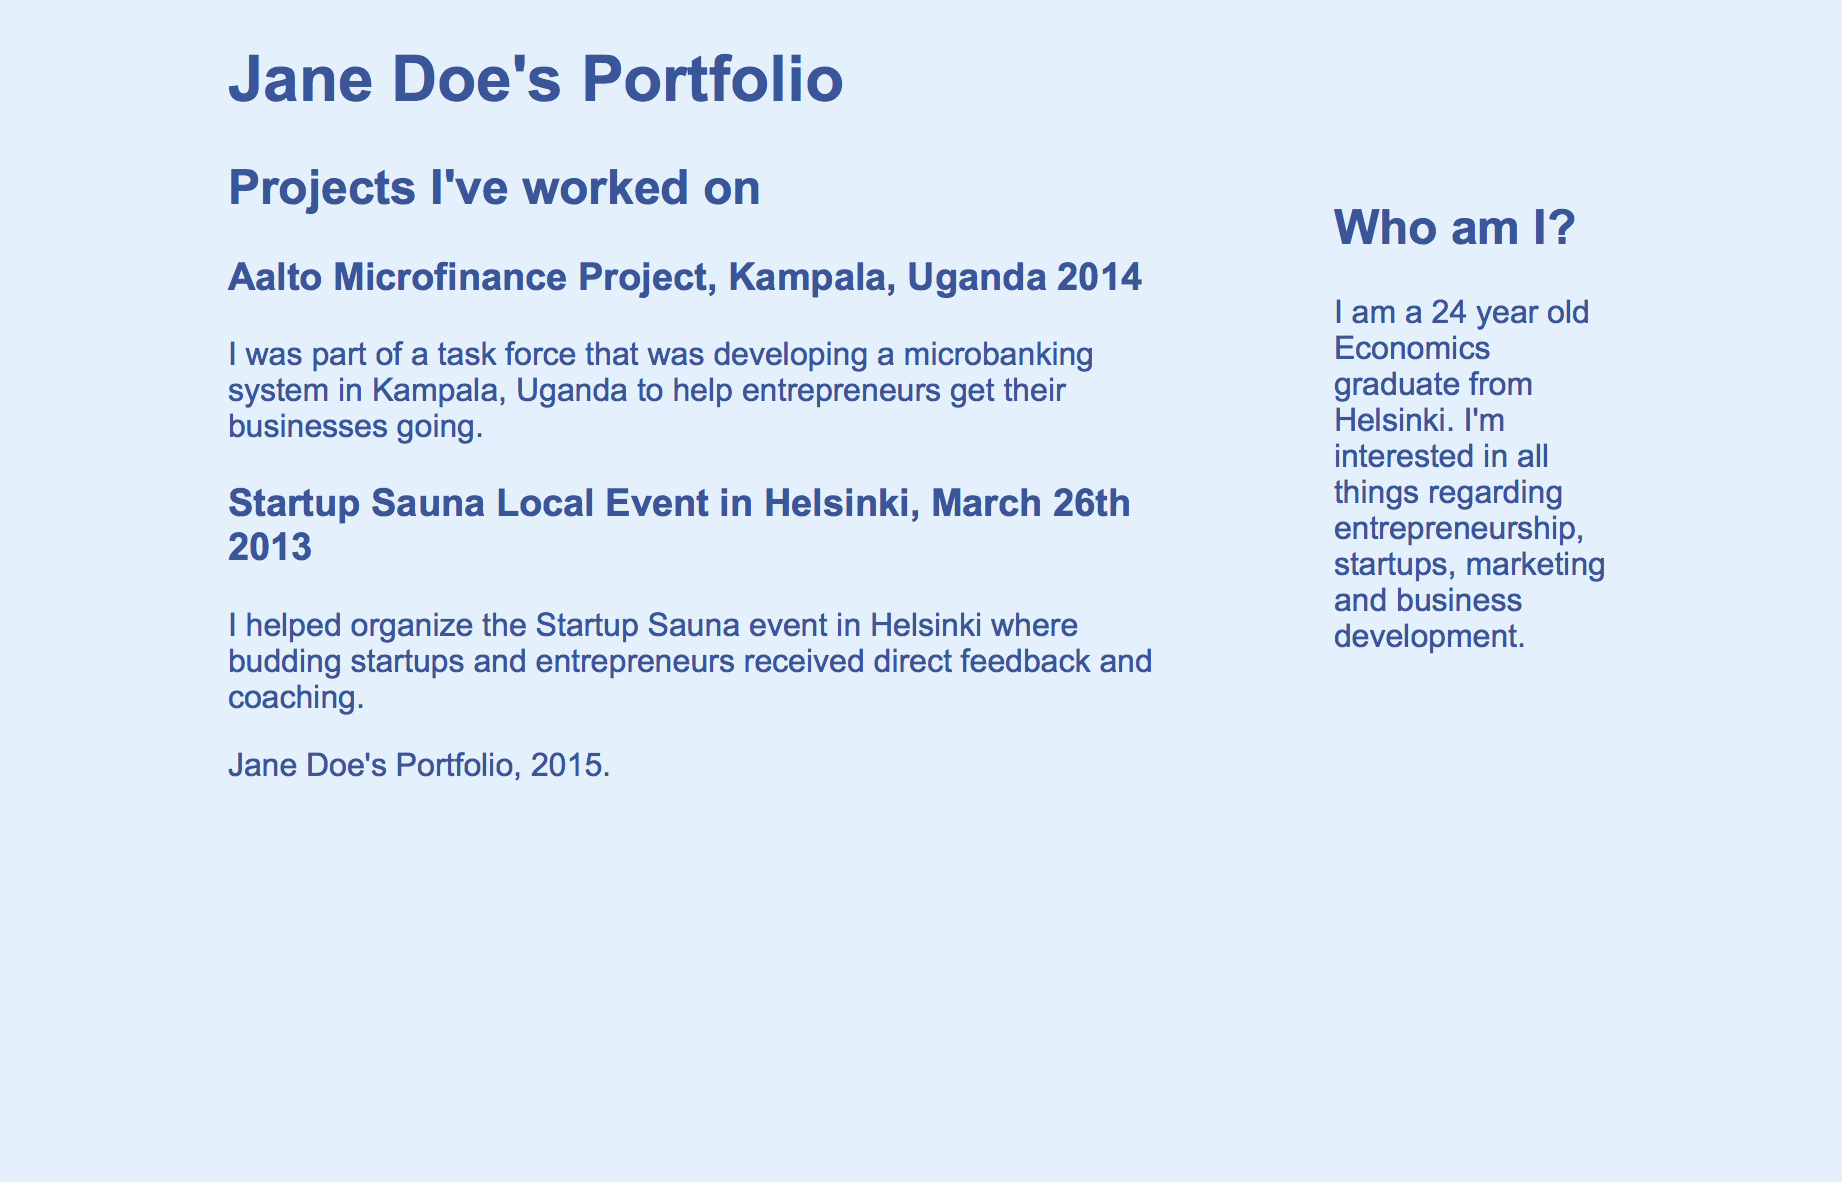
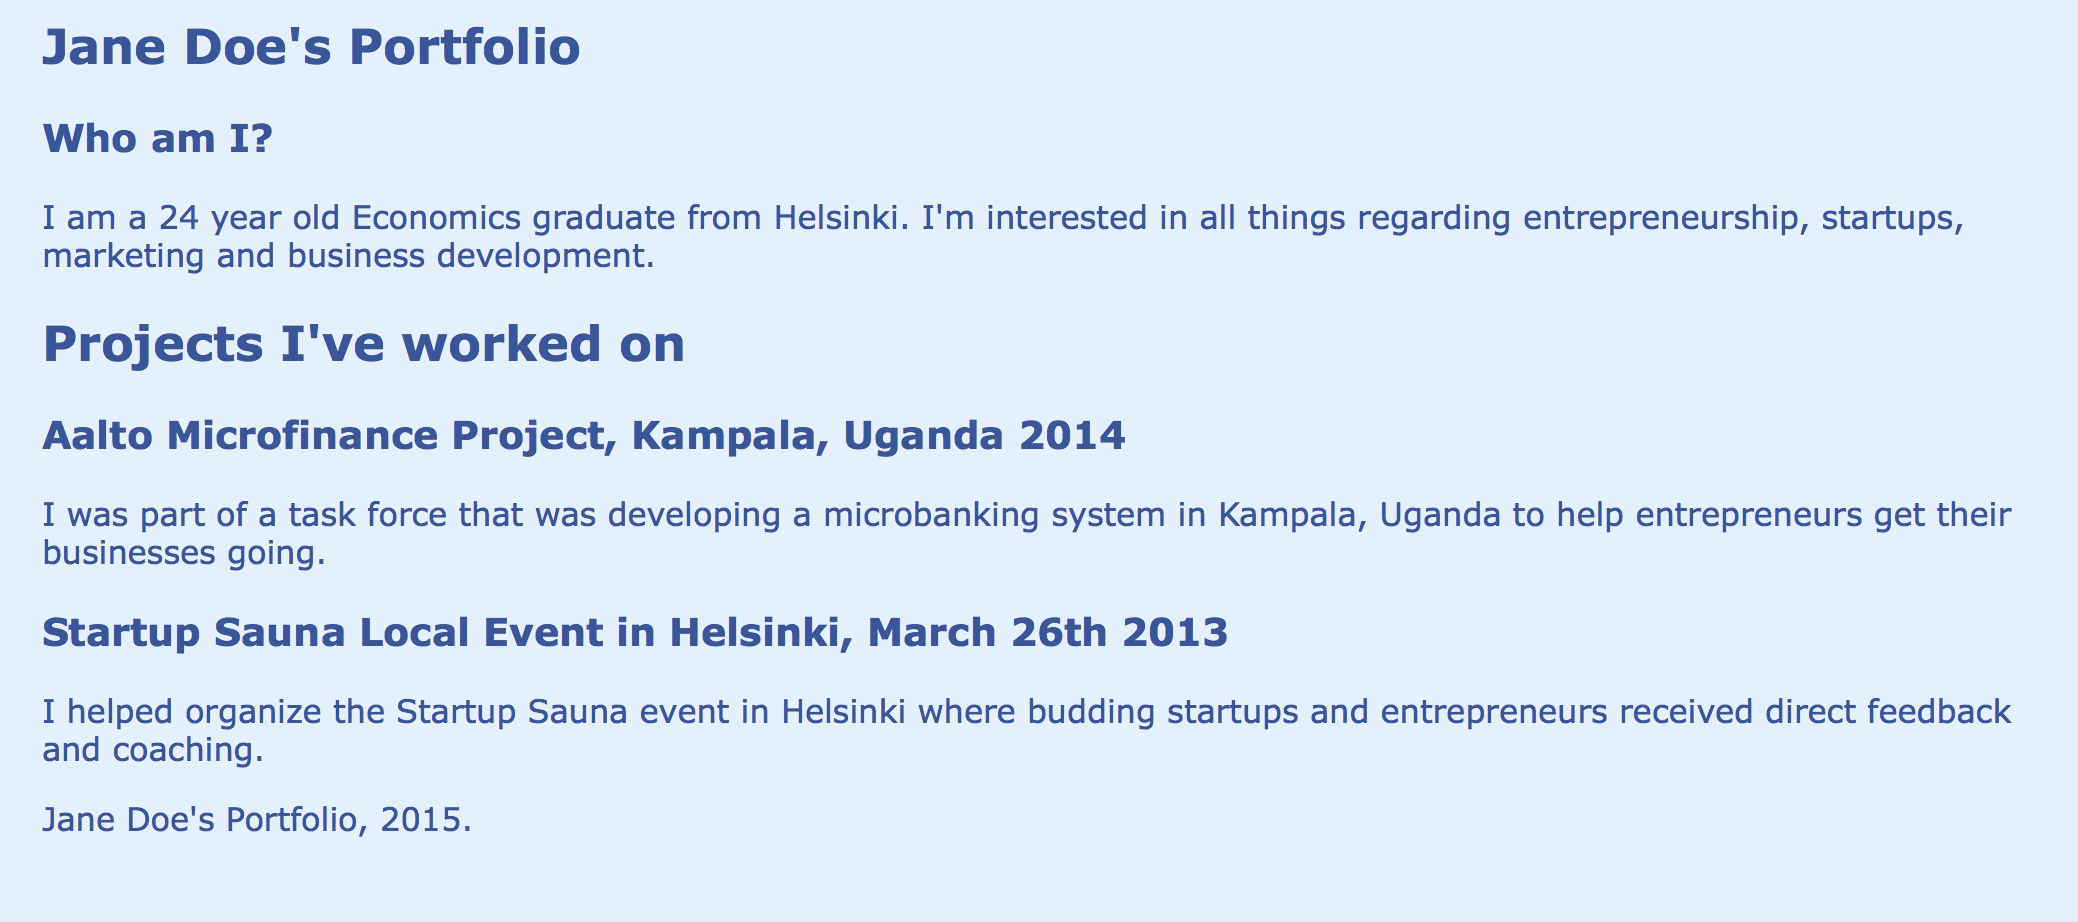
added more material

diff --git a/index.md b/index.md
@@ -160,15 +160,7 @@ The `<p>` element is a paragraph element. Inside it you can write normal text.
 
 In this workshop we're going to practice our website building skills by creating a personal portfolio site. We're going to start by creating the HTML documents for the site and adding content into them and then adding more features step by step. I'm going to use an imaginary person on this site as an example, but you can obviously make the site for yourself or someone else. And of course **you don't have to follow the examples religiously. You are free (and encouraged) to add your own modifications.**
 
-Let's say that Jane Doe is a 24-year old recent graduate with a degree in Economics. During her studies she has worked in multiple projects with different companies and NGOs. Now she wants to build herself a portfolio site to show her experience. The site would include:
-
-* A resume page
-* A biography/about me page
-* A small gallery of images
-* A links page
-
-![Jane Doe's portfolio](assets/portfolio_example/portfolio.png)
-The resulting site would look something like this.
+The resulting site would look something like [this](/html-workshop/example/).
 
 ## Ex. 1: Setup the index.html
 
@@ -284,36 +276,58 @@ HTML5 gives us new structuring elements that make our code more readable: `<sect
     <head>
         <title>Jane Doe's Portfolio</title>
     </head>
+
     <body>
+
         <header>
             <h1>Jane Doe's Portfolio</h1>
         </header>
+
         <aside>
+
             <h1>Who am I?</h1>
+
             <p>
-                I am a 24 year old Economics graduate from Helsinki. I'm interested in all things regarding entrepreneurship, startups, marketing and business development.
+                I am a 24 year old Economics graduate from Helsinki.
+                I'm interested in all things regarding entrepreneurship, startups, marketing and business development.
             </p>
+
         </aside>
+
         <article>
+
             <h2>Projects I've worked on</h2>
+
             <section>
+
                <h3>Aalto Microfinance Project, Kampala, Uganda 2014</h3>
+
                 <p>
                     I was part of a task force that was developing a microbanking system in Kampala, Uganda to help entrepreneurs get their businesses going.
                 </p>
+
             </section>
+
             <section>
+
                 <h3>Startup Sauna Local Event in Helsinki, March 26th 2013</h3>
+
                 <p>
                     I helped organize the Startup Sauna event in Helsinki where budding startups and entrepreneurs received direct feedback and coaching.
                 </p>
+
             </section>
+
         </article>
+
         <footer>
+
             <p>
                 Jane Doe's Portfolio, 2015.
             </p>
+
         </footer>
+
         </body>
 </html>
 {% endhighlight %}
@@ -465,6 +479,144 @@ You can use [this](http://www.crockford.com/wrrrld/color.html) or [this](http://
 ## Ex. 5: Add colors to your text and headers
 
 Use separate selectors for practice!
+
+## Ex. 6: Change the font
+
+Change the font used in the site to whatever you like. Remember that not all fonts are *websafe*, meaning that not every font is found on the user's computer. And if a font is not found on the user's computer, it means that it will not show. That is why the `font-family` property is a prioritized list, so there is always something to fall back to.
+
+You can use [this](http://web.mit.edu/jmorzins/www/fonts.html) site to figure out a web-safe font for you to use. Or [this](http://www.cssfontstack.com) one.
+
+# Classes and IDs
+
+Now your page should have some color. Our example page, for example, looks like this:
+
+![Example](assets/portfolio_example/with_css_first.png)
+Nothing spectacular, but more colorful at least.
+
+Now you might have noticed that when you have multiple same elements in the HTML file and you change their appearance with the element selector, it changes the appearance of **all** the elements with the same tag.
+
+Say you have multiple `<section>` elements, and you applied this CSS rule:
+
+{% highlight css %}
+section {
+    background-color: lime;
+}
+{% endhighlight %}
+
+Now **every** `<section>` element would have a lime-colored background! How do we separate the elements?
+
+With classes and IDs.
+
+## Classes
+
+A class is an attribute you can give to an HTML element. It can be *classify* multiple elements. Say you had HTML code like this:
+
+{% highlight html %}
+<p>
+    I want this text to be blue
+</p>
+
+<p>
+    I want this text to be black
+</p>
+
+<p>
+    I want this text to be blue 
+</p>
+{% endhighlight %}
+
+And CSS like this:
+
+{% highlight css %}
+p {
+    color: blue;
+}
+{% endhighlight %}
+
+Can you figure out what that would do?
+
+...
+
+... It would turn all the text blue! Now, if we edited the code a little bit:
+
+HTML:
+{% highlight html %}
+<p class="blue-text">
+    I want this text to be blue
+</p>
+
+<p>
+    I want this text to be black
+</p>
+
+<p class="blue-text">
+    I want this text to be blue
+</p>
+{% endhighlight %}
+
+CSS:
+{% highlight css %}
+.blue-text { <-- Class selectors are marked with a dot.
+    color: blue;
+}
+{% endhighlight %}
+
+Now the texts would have the right colors.
+
+## IDs
+
+You can also use ID attributes to separate elements. The difference between a class and an ID is that with the ID attribute you can target *single* elements, whereas the class attribute is for targeting multiple elements.
+
+You can use IDs like this:
+
+HTML:
+{% highlight html %}
+<p>
+    I want this text to be blue
+</p>
+
+<p id="black-text">
+    I want this text to be black
+</p>
+
+<p>
+    I want this text to be blue
+</p>
+
+{% endhighlight %}
+
+CSS:
+{% highlight css %}
+#black-text { <-- ID selectors are marked with a hash.
+    color: black;
+}
+{% endhighlight %}
+
+Now we can start having some fun with CSS.
+
+# Positioning
+
+So far we've been doing pretty simple things with CSS. Now we are getting to the hard parts. CSS has always been the butt of many jokes because of its behaviors that might sometimes be a bit illogical.
+
+![CSS is awesome!](http://2.bp.blogspot.com/-UW3g76lTK-E/U0XIBligBII/AAAAAAAAAAU/4zkKDTEbhs8/s1600/css-is-awesome.gif)
+How you may or may not feel like after fiddling with CSS
+
+![CSS is awesome!](http://rlv.zcache.com/css_is_awesome_mug-r2d5815535b404a1ba0dd1e9a9142c950_x7jg9_8byvr_324.jpg)
+Like this mug?
+
+I don't mean to discourage you, on the contrary. Don't feel bad if you don't get the site looking the way you want at first. Just keep at it, and use google. **Seriously. Google is your friend when developing web sites or anything else.** There are tons of answers out there for almost any kind of problem regarding HTML and CSS. I use it all the time.
+
+## The Box Model
+
+Anyway, back to business.
+
+In HTML and CSS there is a thing called **the box model**. Basically in an HTML document, every element is represented as a rectangular box. And when you add CSS rules to your document, those rules make changes to the elements' boxes.
+
+
+
+# Borders
+
+# Back to HTML: Lists, Images and Links
 
 ## A good article about best practices in CSS
 
